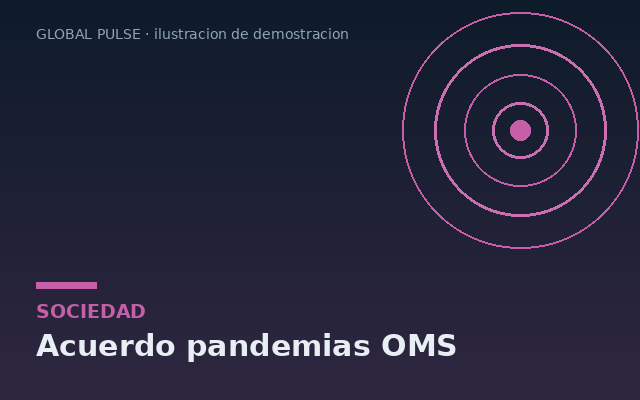
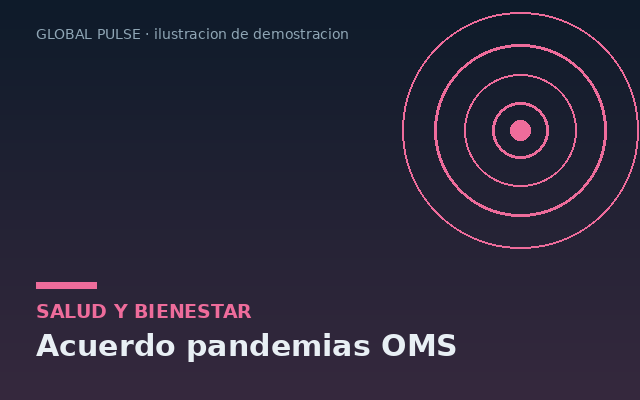
feat(global-pulse): taxonomia ampliada a 8 categorias
- 'Clima' se redefine como 'Impacto climatico': fenomenos extremos,
  consecuencias del cambio climatico, emisiones y adaptacion (palabras
  clave reorientadas al impacto, no a la meteorologia generica).
- Nueva categoria 'Innovacion y dispositivos': productos, inventos,
  prototipos, patentes y lanzamientos.
- Nueva categoria 'Salud y bienestar': medicina, salud publica, salud
  mental, nutricion y bienestar (absorbe las claves sanitarias que estaban
  en ciencia/sociedad).
- Colores propios en la interfaz, nombres bilingues, leyenda y manuales
  (in-app y docs) actualizados; ilustracion demo de la OMS reetiquetada.

Validado con el corpus real del 2026-07-18: salud 60, clima 30 e
innovacion 21 nodos, con ejemplos correctos por categoria.

Claude-Session: https://claude.ai/code/session_011FtC5MSZgGz8mAGDxSc14i

diff --git a/global-pulse/app/src/components/Manual.tsx b/global-pulse/app/src/components/Manual.tsx
@@ -14,8 +14,9 @@ const MANUAL: Record<'es' | 'en', { title: string; sections: Section[] }> = {
         p: ['Mapa: cada círculo es un nodo situado donde ocurre el evento. Su color indica la categoría y su tamaño el impacto; el halo pulsante señala que pertenece al pulso vigente.',
             'Grafo: muestra las relaciones entre nodos; una línea une nodos que comparten actores o región.',
             'Lista: ordena los nodos por impacto, con su categoría y puntuación. La leyenda «Cómo leer esta vista» está siempre bajo el panel.'] },
-      { h: '4. Filtros',
-        p: ['Filtra por categoría (geopolítica, economía, ciencia, clima, tecnología, sociedad) y por impacto mínimo con el deslizador. Los filtros se aplican a las tres vistas.'] },
+      { h: '4. Filtros y categorías',
+        p: ['Filtra tocando las categorías (se pueden combinar varias) y por impacto mínimo con el deslizador. Los filtros se aplican a las tres vistas.',
+            'Categorías: Geopolítica · Economía · Ciencia · Impacto climático (consecuencias del cambio climático: fenómenos extremos, emisiones, adaptación) · Tecnología · Innovación y dispositivos (productos, inventos y lanzamientos) · Salud y bienestar · Sociedad.'] },
       { h: '5. Detalle de un nodo y fuentes (Capa 3)',
         p: ['Toca cualquier nodo para abrir su ficha: síntesis, actores, imágenes, nodos relacionados y las fuentes originales con su identificador de evidencia (ev_…). El distintivo «verificado» significa que el nodo está anclado a evidencia; «sin verificar» indica que carece de fuente suficiente y no muestra impacto.'] },
       { h: '6. Idiomas',
@@ -43,8 +44,9 @@ const MANUAL: Record<'es' | 'en', { title: string; sections: Section[] }> = {
         p: ['Map: each circle is a node placed where the event happens. Its color is the category and its size the impact; the pulsing halo marks nodes in the current pulse.',
             'Graph: shows relations between nodes; a line joins nodes sharing actors or region.',
             'List: sorts nodes by impact with category and score. The “How to read this view” legend always sits under the panel.'] },
-      { h: '4. Filters',
-        p: ['Filter by category (geopolitics, economy, science, climate, technology, society) and by minimum impact with the slider. Filters apply to all three views.'] },
+      { h: '4. Filters and categories',
+        p: ['Filter by tapping categories (several can be combined) and by minimum impact with the slider. Filters apply to all three views.',
+            'Categories: Geopolitics · Economy · Science · Climate impact (consequences of climate change: extreme events, emissions, adaptation) · Technology · Innovation & devices (products, inventions and launches) · Health & wellness · Society.'] },
       { h: '5. Node detail and sources (Layer 3)',
         p: ['Tap any node to open its card: synthesis, actors, images, related nodes and the original sources with their evidence id (ev_…). The “verified” badge means the node is anchored to evidence; “unverified” means it lacks sufficient sourcing and shows no impact score.'] },
       { h: '6. Languages',

diff --git a/global-pulse/app/src/i18n.ts b/global-pulse/app/src/i18n.ts
@@ -43,7 +43,9 @@ export const DICT = {
     readNode: 'Leer este nodo',
     categoriesNames: {
       geopolitica: 'Geopolítica', economia: 'Economía', ciencia: 'Ciencia',
-      clima: 'Clima', tecnologia: 'Tecnología', sociedad: 'Sociedad',
+      clima: 'Impacto climático', tecnologia: 'Tecnología',
+      innovacion: 'Innovación y dispositivos', salud: 'Salud y bienestar',
+      sociedad: 'Sociedad',
     } as Record<string, string>,
   },
   en: {
@@ -87,7 +89,9 @@ export const DICT = {
     readNode: 'Read this node',
     categoriesNames: {
       geopolitica: 'Geopolitics', economia: 'Economy', ciencia: 'Science',
-      clima: 'Climate', tecnologia: 'Technology', sociedad: 'Society',
+      clima: 'Climate impact', tecnologia: 'Technology',
+      innovacion: 'Innovation & devices', salud: 'Health & wellness',
+      sociedad: 'Society',
     } as Record<string, string>,
   },
 } as const

diff --git a/global-pulse/app/src/types.ts b/global-pulse/app/src/types.ts
@@ -46,5 +46,7 @@ export const CATEGORY_COLORS: Record<string, string> = {
   ciencia: '#7C6FE4',
   clima: '#3FA65C',
   tecnologia: '#3D9BE4',
+  innovacion: '#1CB0C8',
+  salud: '#EE6C9B',
   sociedad: '#C75FA8',
 }

diff --git a/global-pulse/pipeline/gp/config.py b/global-pulse/pipeline/gp/config.py
@@ -110,7 +110,8 @@ ENTITY_MERGE_JACCARD = 0.34   # fusion de clusters entre idiomas
 MAX_CLUSTER_PIECES = 12       # tope de piezas por cluster (evita bolas de nieve)
 MAX_REFS_PER_NODE = 12        # referencias maximas mostradas por nodo
 
-CATEGORIES = ["geopolitica", "economia", "ciencia", "clima", "tecnologia", "sociedad"]
+CATEGORIES = ["geopolitica", "economia", "ciencia", "clima", "tecnologia",
+              "innovacion", "salud", "sociedad"]
 
 # Palabras clave por categoria (es + en, minusculas)
 CATEGORY_KEYWORDS = {
@@ -122,21 +123,48 @@ CATEGORY_KEYWORDS = {
                     "mercado", "market", "pib", "gdp", "arancel", "tariff",
                     "comercio", "trade", "divisa", "currency", "recesion",
                     "recession", "empleo", "employment", "fmi", "imf"],
-    "ciencia":     ["vacuna", "vaccine", "descubrimiento", "discovery",
-                    "investigacion", "research", "estudio", "study", "nasa",
-                    "esa", "telescopio", "telescope", "genoma", "genome",
-                    "farmaco", "drug", "ensayo clinico", "clinical trial"],
-    "clima":       ["clima", "climate", "sequia", "drought", "inundacion",
-                    "flood", "huracan", "hurricane", "emision", "emission",
-                    "cop", "temperatura", "temperature", "incendio", "wildfire",
-                    "glaciar", "glacier", "energia renovable", "renewable"],
+    "ciencia":     ["descubrimiento", "discovery", "investigacion", "research",
+                    "estudio", "study", "nasa", "esa", "telescopio",
+                    "telescope", "genoma", "genome", "quantum", "cuantica",
+                    "fisica", "physics", "astronomia", "astronomy", "cientifico",
+                    "scientist", "laboratorio", "laboratory"],
+    # Clima = IMPACTO del cambio climatico: fenomenos extremos, consecuencias
+    # y respuesta (mitigacion/adaptacion)
+    "clima":       ["cambio climatico", "climate change", "calentamiento",
+                    "warming", "sequia", "drought", "inundacion", "flood",
+                    "huracan", "hurricane", "ola de calor", "heatwave",
+                    "incendio forestal", "wildfire", "deshielo", "glaciar",
+                    "glacier", "nivel del mar", "sea level", "emision",
+                    "emission", "cop3", "acuerdo de paris", "paris agreement",
+                    "deforestacion", "deforestation", "clima extremo",
+                    "extreme weather", "adaptacion climatica", "el nino",
+                    "la nina", "energia renovable", "renewable"],
     "tecnologia":  ["inteligencia artificial", "artificial intelligence", " ia ",
                     " ai ", "chip", "semiconductor", "ciberseguridad",
                     "cybersecurity", "satelite", "satellite", "software",
-                    "startup", "quantum", "cuantica", "robot", "5g", "datos"],
-    "sociedad":    ["salud", "health", "educacion", "education", "migracion",
-                    "migration", "derechos", "rights", "protesta", "protest",
-                    "cultura", "culture", "poblacion", "population"],
+                    "5g", "datos", "algoritmo", "algorithm", "plataforma",
+                    "platform", "nube", "cloud"],
+    # Innovacion = productos, dispositivos e inventos nuevos
+    "innovacion":  ["lanzamiento", "launch", "lanza", "unveils", "presenta",
+                    "dispositivo", "device", "gadget", "prototipo", "prototype",
+                    "invento", "invention", "patente", "patent", "wearable",
+                    "smartphone", "auricular", "headset", "gafas", "glasses",
+                    "robot", "dron", "drone", "startup", "innovacion",
+                    "innovation", "breakthrough", "nuevo modelo", "new model",
+                    "vehiculo electrico", "electric vehicle", "bateria",
+                    "battery", "impresion 3d", "3d printing"],
+    # Salud y bienestar
+    "salud":       ["salud", "health", "vacuna", "vaccine", "hospital",
+                    "enfermedad", "disease", "epidemia", "epidemic", "pandemia",
+                    "pandemic", "cancer", "farmaco", "drug", "ensayo clinico",
+                    "clinical trial", "oms", "who ", "salud mental",
+                    "mental health", "bienestar", "wellness", "nutricion",
+                    "nutrition", "obesidad", "obesity", "ejercicio", "fitness",
+                    "longevidad", "longevity", "terapia", "therapy"],
+    "sociedad":    ["educacion", "education", "migracion", "migration",
+                    "derechos", "rights", "protesta", "protest", "cultura",
+                    "culture", "poblacion", "population", "empleo juvenil",
+                    "desigualdad", "inequality", "religion"],
 }
 
 # Gazetteer minimo: pais/region -> (lat, lon, region legible)

diff --git a/global-pulse/docs/MANUAL.md b/global-pulse/docs/MANUAL.md
@@ -30,9 +30,17 @@ mostrando el último pulso válido.
 
 La leyenda **«Cómo leer esta vista»** aparece siempre bajo el panel.
 
-### 4. Filtros
-Filtra por categoría (geopolítica, economía, ciencia, clima, tecnología,
-sociedad) y por impacto mínimo con el deslizador. Se aplican a las tres vistas.
+### 4. Filtros y categorías
+Filtra tocando las categorías (se pueden combinar varias) y por impacto mínimo
+con el deslizador. Se aplican a las tres vistas. Las categorías son:
+
+- **Geopolítica** · **Economía** · **Ciencia** · **Tecnología** · **Sociedad**
+- **Impacto climático:** consecuencias del cambio climático (fenómenos
+  extremos, emisiones, deshielo, adaptación).
+- **Innovación y dispositivos:** productos nuevos, inventos, prototipos y
+  lanzamientos.
+- **Salud y bienestar:** medicina, salud pública, salud mental, nutrición y
+  bienestar.
 
 ### 5. Detalle de un nodo y fuentes (Capa 3)
 Toca cualquier nodo para abrir su ficha: síntesis, actores, imágenes, nodos
@@ -104,9 +112,16 @@ Once installed it works offline, showing the last valid pulse.
 
 The **"How to read this view"** legend always sits under the panel.
 
-### 4. Filters
-Filter by category (geopolitics, economy, science, climate, technology,
-society) and by minimum impact with the slider. Filters apply to all views.
+### 4. Filters and categories
+Filter by tapping categories (several can be combined) and by minimum impact
+with the slider. Filters apply to all views. Categories are:
+
+- **Geopolitics** · **Economy** · **Science** · **Technology** · **Society**
+- **Climate impact:** consequences of climate change (extreme events,
+  emissions, ice loss, adaptation).
+- **Innovation & devices:** new products, inventions, prototypes and launches.
+- **Health & wellness:** medicine, public health, mental health, nutrition and
+  well-being.
 
 ### 5. Node detail and sources (Layer 3)
 Tap any node to open its card: synthesis, actors, images, related nodes and
